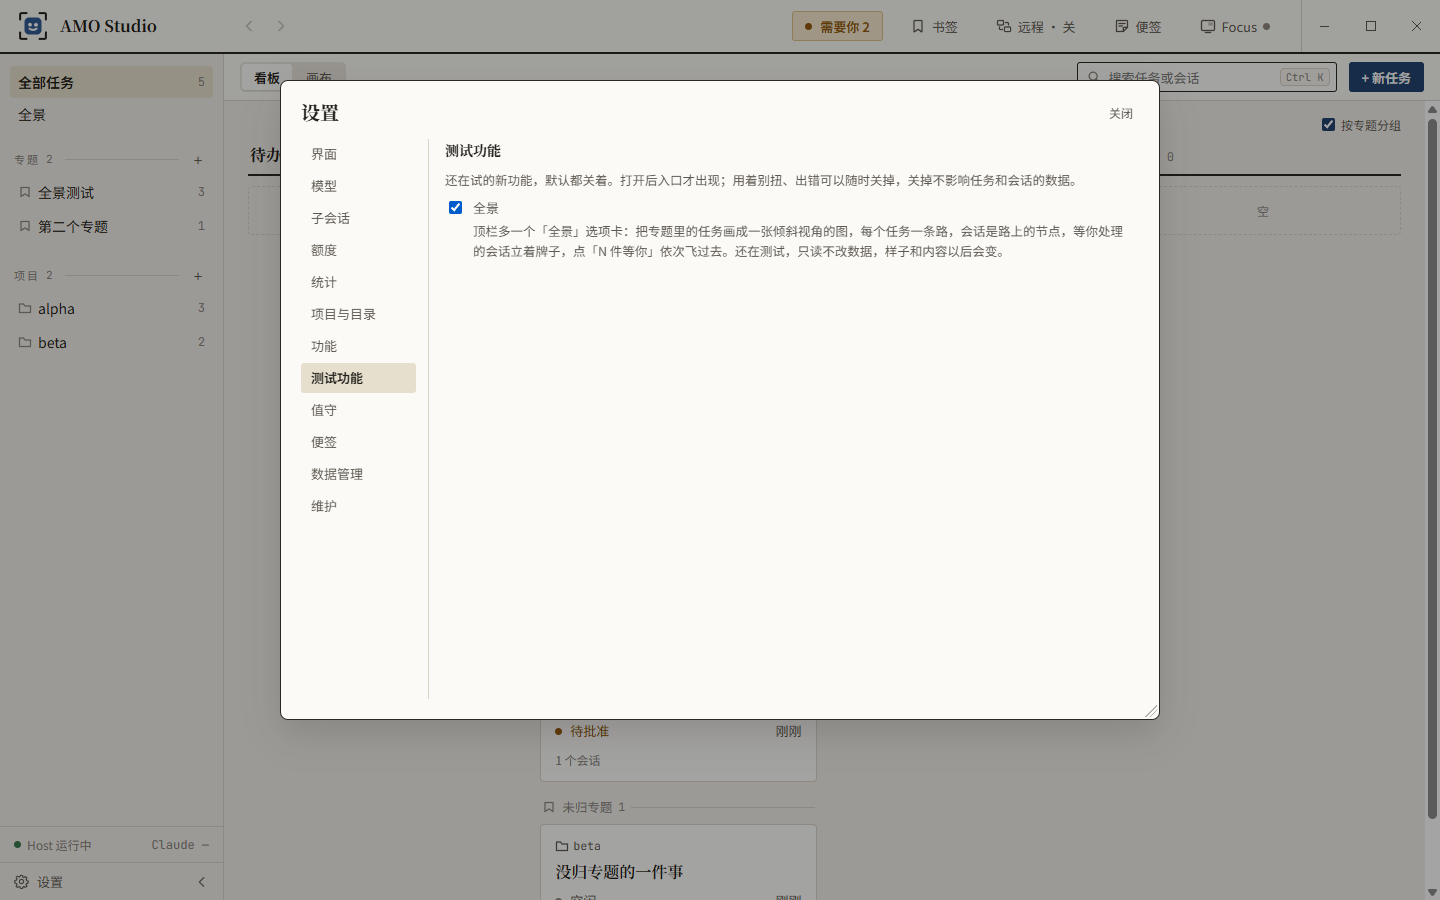
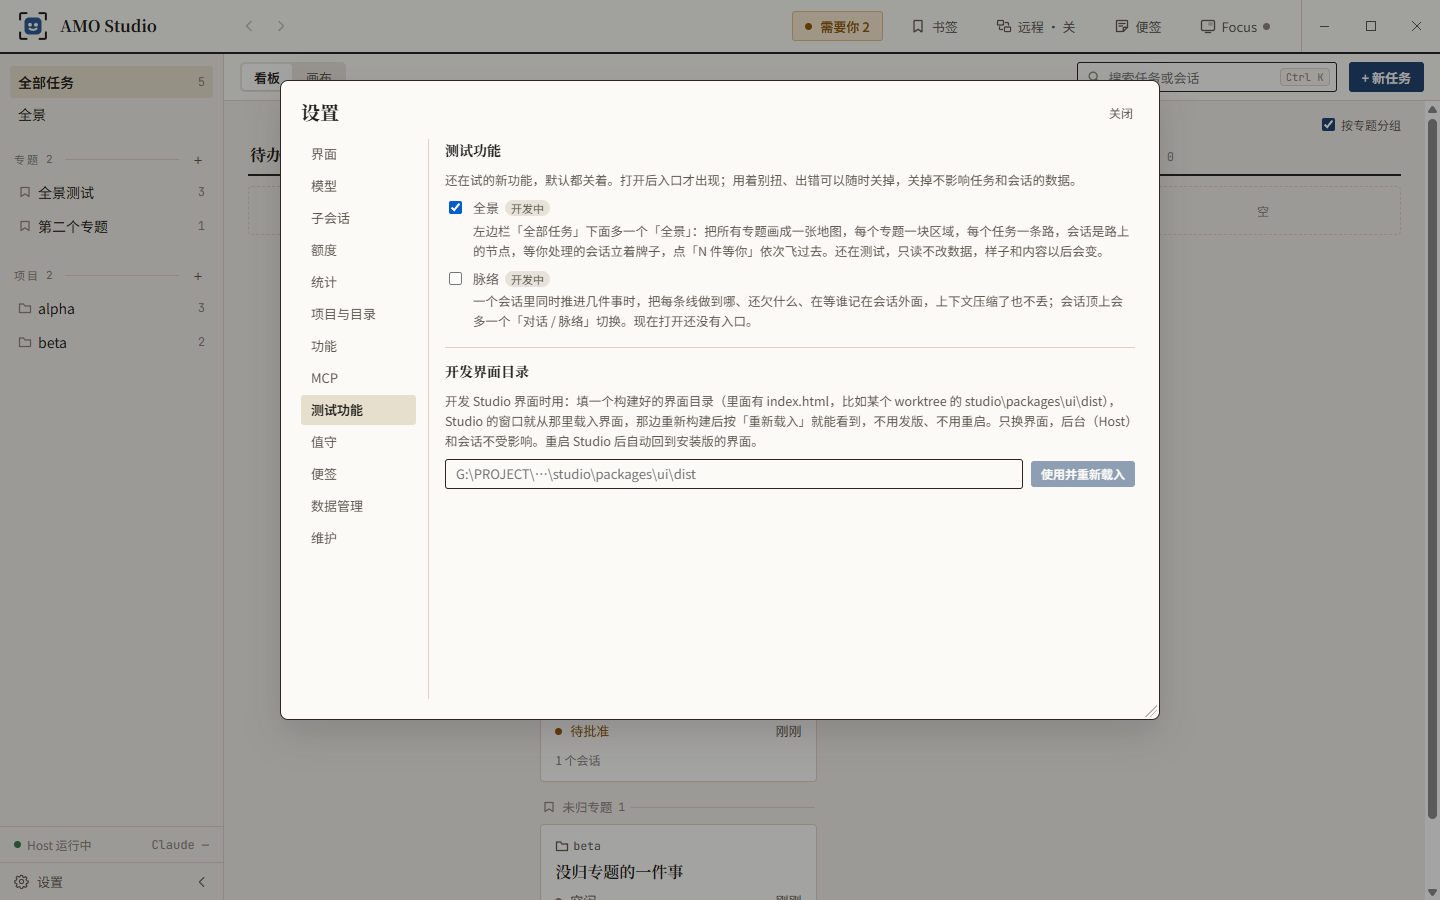
feat(settings): 测试功能 marks what is still being built 「开发中」, and gets 脉络 — its switch only, for now (the user, 2026-11-09: 首先我们给测试功能全景加一个开发中的标记。再加一个新模块的开关…就叫脉络，开始第 0 步吧)
脉络 (tracks) is the session-level answer to several things going on in one conversation, and between a session and the sessions it starts: where each line stands, what is still owed and who it waits on, kept outside the context so a compaction does not lose the quiet ones. plans/tracks.md has why (the 11-09 check on project_mining's merge session: at its first compaction Claude's summary kept 10 of the 16 open things whole, 2 in part, lost 4 — one became BR-007, and D11, kept as a bare number, later took D12's meaning; the same transcript written down as a ledger whose rule is "say what it is, not just its number" kept 14–15 whole with Sonnet and Opus), what the user settled (name 脉络 to stand beside 全景, 「对话 / 脉络」 at the top of a session, the ledger is the Host's data not a session, start at the session level, iterate the UI through 开发界面目录) and the steps.

EXPERIMENTAL_FEATURES entries take `stage: "dev"`, shown as 「开发中」 beside the name (the settings tag); 全景 and 脉络 both have it. The Host's list of known 测试功能 now includes `tracks`, which is why this needs a release: 0.9.56's Host refuses a name it does not know. Turning 脉络 on shows nothing yet, and its hint says so.

Checked: typecheck; amo-mcp.test (测试功能 kept in the list's order: tracks + panorama sent either way round); e2e panorama.spec, which now also sees both 开发中 tags and 脉络 left off — passes; screenshot panorama-settings looked at.

Changed region(s): [[0.1875, 0.4044, 0.8125, 0.6222], [0.3125, 0.2178, 0.7812, 0.3733]]

diff --git a/studio/packages/protocol/src/api.ts b/studio/packages/protocol/src/api.ts
@@ -218,13 +218,26 @@ export const OPTIONAL_FEATURES: readonly { id: OptionalFeature; label: string; h
  * 设置 → 测试功能 (2026-11-01, the user: 设置里加个测试功能页，这个功能加个开关): features still being tried out. The
  * opposite of OPTIONAL_FEATURES: off until the person turns one on, and the settings list the ones turned on.
  */
-export type ExperimentalFeature = "panorama";
+export type ExperimentalFeature = "panorama" | "tracks";
 
-export const EXPERIMENTAL_FEATURES: readonly { id: ExperimentalFeature; label: string; hint: string }[] = [
+/**
+ * `dev` (2026-11-09, the user: 给测试功能全景加一个开发中的标记): still being built, shown as 「开发中」 beside its name —
+ * what it does now is a first piece, or nothing yet.
+ */
+export const EXPERIMENTAL_FEATURES: readonly { id: ExperimentalFeature; label: string; hint: string; stage?: "dev" }[] = [
   {
     id: "panorama",
     label: "全景",
     hint: "左边栏「全部任务」下面多一个「全景」：把所有专题画成一张地图，每个专题一块区域，每个任务一条路，会话是路上的节点，等你处理的会话立着牌子，点「N 件等你」依次飞过去。还在测试，只读不改数据，样子和内容以后会变。",
+    stage: "dev",
+  },
+  // 脉络 (2026-11-09, plans/tracks.md): one session carrying several things at once keeps where each line stands outside
+  // its context, so a compaction does not lose the quiet ones. Only the switch so far.
+  {
+    id: "tracks",
+    label: "脉络",
+    hint: "一个会话里同时推进几件事时，把每条线做到哪、还欠什么、在等谁记在会话外面，上下文压缩了也不丢；会话顶上会多一个「对话 / 脉络」切换。现在打开还没有入口。",
+    stage: "dev",
   },
 ];
 

diff --git a/studio/packages/host/src/mcp/amo-mcp.test.ts b/studio/packages/host/src/mcp/amo-mcp.test.ts
@@ -115,6 +115,9 @@ describe("AMO MCP", () => {
     expect(() => service.config.updateSettings({ experimentalFeatures: ["nope"] })).toThrow(/experimentalFeatures/);
     expect(() => service.config.updateSettings({ experimentalFeatures: "panorama" })).toThrow(/experimentalFeatures/);
     expect(service.config.updateSettings({ experimentalFeatures: ["panorama", "panorama"] }).experimentalFeatures).toEqual(["panorama"]);
+    // 脉络 (2026-11-09): kept in the list's order whatever order it was sent in.
+    expect(service.config.updateSettings({ experimentalFeatures: ["tracks", "panorama"] }).experimentalFeatures).toEqual(["panorama", "tracks"]);
+    expect(service.config.updateSettings({ experimentalFeatures: ["panorama"] }).experimentalFeatures).toEqual(["panorama"]);
     // One that was taken out again is ignored when read back.
     store.setKv("settings:experimental-features", JSON.stringify(["gone", "panorama"]));
     expect(service.config.experimentalFeatures()).toEqual(["panorama"]);

diff --git a/studio/e2e/studio/panorama.spec.ts b/studio/e2e/studio/panorama.spec.ts
@@ -90,6 +90,10 @@ test("全景: off by default, turned on in 测试功能, opened from the left co
   await dialog.getByRole("tab", { name: "测试功能" }).click();
   const toggle = dialog.getByTestId("experimental-panorama");
   await expect(toggle).not.toBeChecked();
+  // Both still being built (2026-11-09): 「开发中」 beside the name; 脉络 off and left alone here.
+  await expect(dialog.getByTestId("experimental-panorama-stage")).toHaveText("开发中");
+  await expect(dialog.getByTestId("experimental-tracks-stage")).toHaveText("开发中");
+  await expect(dialog.getByTestId("experimental-tracks")).not.toBeChecked();
   await toggle.check();
   await expect(toggle).toBeChecked();
   await expect.poll(async () => (await studio!.api<{ experimentalFeatures: string[] }>("GET", "/api/settings")).experimentalFeatures).toEqual(["panorama"]);

diff --git a/studio/packages/ui/src/settings/ExperimentalSection.tsx b/studio/packages/ui/src/settings/ExperimentalSection.tsx
@@ -38,7 +38,14 @@ export function ExperimentalSection({ link, on }: { link: HostLink; on: readonly
         <label key={f.id} className="settings-row feature-row">
           <input type="checkbox" checked={shown.includes(f.id)} disabled={busy} onChange={(e) => void toggle(f.id, e.target.checked)} data-testid={`experimental-${f.id}`} />
           <span className="feature-text">
-            <span className="settings-label">{f.label}</span>
+            <span className="settings-label">
+              {f.label}
+              {f.stage === "dev" && (
+                <span className="settings-tag feature-stage" data-testid={`experimental-${f.id}-stage`}>
+                  开发中
+                </span>
+              )}
+            </span>
             <span className="settings-hint">{f.hint}</span>
           </span>
         </label>

diff --git a/studio/packages/ui/src/settings/settings.css b/studio/packages/ui/src/settings/settings.css
@@ -17,6 +17,7 @@
 .feature-row { align-items: flex-start; cursor: pointer; }
 .feature-row input { margin-top: 3px; }
 .feature-text { display: flex; flex-direction: column; gap: 2px; flex: 1; min-width: 0; }
+.feature-stage { margin-left: 6px; }
 
 /* 设置 in pages: the areas on the left, one page on the right (the dialog keeps its size between pages). */
 .settings-modal { position: relative; width: min(880px, calc(100vw - 40px)); height: min(640px, calc(100vh - 120px)); overflow: hidden; gap: 12px; }

diff --git a/studio/plans/tracks.md b/studio/plans/tracks.md
@@ -1,0 +1,53 @@
+# 脉络（tracks）：一个会话、几个会话推进多件事时，不丢线（2026-11-09）
+
+> 状态：进行中。第 0 步（测试功能「开发中」标签、「脉络」开关、这份方案）在分支 `studio/tracks`（worktree `G:/PROJECT/AgentMonitorOverlay-tracks`）。下一步：面板原型。
+
+## 起因（用户 11-09）
+
+- 子会话和主会话之间的往来（回报、`session_send`）现在都以用户气泡铺在对话里，影响人的判断。
+- 对话常分出几个方向：聊到后面分成 3 支，要分别迭代；人的精力在第 1、2 支，第 3 支就忘了，只能不时去问对应的对话「做到哪、还有什么没做」。
+- 拉起子会话、或经中转发给别人，本身是一个小循环。
+- 主会话和子会话频繁互动时人不该关心中间过程；派发之后应该让人直接在子会话里操作，省掉「子 → 主 → 人」的转手。
+- 这几种本是想在全景里表达的。全景卡住了：框架太大、痛点不够明确。这次反过来，**从小向大**：先从会话级做起。
+
+## 验证（11-09，`studio/out/branch-eval/findings.md`，不进 git）
+
+拿 project_mining「代码合并和任务推进」主会话（人 40 条、收件箱 36 条、压缩 3 次、开 13 个子会话、人问进度 4 次）做的：
+
+- 第一次压缩时开着的 16 件事：Claude 的压缩摘要完整保住 10、半截 2、丢 4；按台账格式记（规则「内容写清，不能只写编号」）Sonnet 14 / 2 / 0，Opus 15 / 1 / 0。
+- 压缩后模型的汇总和摘要一模一样：摘要里没有的它就不知道。丢掉的「画面表现未核实（死者身上落雷）」后来成了 BR-007。只留编号的 D11 在压缩后被套上了 D12 的内容。
+- 只取开着的事渲染成目录约 5,900 字，压缩摘要 11,000 字。
+- 主会话转述子会话状态出错过一次（U24）；36 条回报共 84,185 字进了主会话的上下文。
+- 10-30 以来人开的 78 个主会话：人发 10 条以内的 63 个，压缩过的 5 个；11 条以上的 15 个，压缩过 13 个，「问进度」只出现在这里。115 个子会话里人亲自进去发过消息的 57 个。
+
+局限：一个会话、一个切点、单人标注；台账是事后一次整理，不是边干边记。
+
+## 已定（用户 11-09）
+
+- **名字「脉络」**，对标全景；会话顶上切换「对话 / 脉络」，点「脉络」右边整个换掉。代码 id `tracks`。里面那本账叫「台账」。
+- 设置 → 测试功能：全景和脉络都标「开发中」。
+- **台账是 Host 存的数据，不是会话**：放在会话里会跟着压缩丢、常驻维护越来越费 token（同 10-30 不做常驻看板员）。平级会话的用处是**接力**：一个会话做到一半太大，开新会话把台账交过去。
+- **从会话级开始**，不预先判断任务大小：开了功能，新会话从一开始就带台账，空的不花什么。
+- 新建会话 / 任务的界面要有对应选项；顺带把任务里「新建会话」改得像新建任务：一页填完首句、模型、附件、选项，一次创建并发出（现在是先选模型创建、再写首句）。
+- 用**开发界面目录**（设置 → 测试功能，`config.devUiDir`）在 worktree 里迭代界面；Host 一侧的改动要重启 Host 才生效，攒一批，由人在没有会话运行时点重启，必要时发测试版。
+
+## 核心流程
+
+1. **面板**：脉络视图长什么样，先做原型（用验证里那份真实台账做 2～3 种可点的 HTML），人上手比较后再定。
+2. **单会话、中等任务**（多数任务，尤其策划推过来的）：有可能压缩一两次。靠外置的台账维持多件事稳定推进。
+3. **多会话、中等 / 复杂任务**：一般知道任务后就能判断复杂度，一轮对话后直接开拆。主会话了解整个任务内部和它相关的内容，维持任务架构清晰，并让人看得懂（例：上面那个合并任务）。
+
+## 做法（草案，随步骤补）
+
+- 台账：线（thread）→ 条目（编号、一句话内容、类型、状态、等谁、来源）。
+- 模型接口：`ledger_update`、`ledger_read`（MCP）。规则写进工具说明：内容写清，不能只写编号；有两件以上开着的事、或话题分叉了才开始记。
+- 回给模型：平时不注入；压缩之后、人问进度时，把开着的事的目录放进下一条消息（`roleUpdate` 通道，`core/role.ts`）。
+- 给人看：脉络视图（按线分组，「◐ N 条等你」）。
+- 以后（流程 3）：条目挂会话 id / 中转 threadId；子会话回报只带台账变化和全文入口；人直接接管子会话；接力。
+
+## 步骤
+
+0. 测试功能「开发中」标签、「脉络」开关、这份方案。开关要 Host 认识 `tracks` 才能打开，所以要发一个测试版。
+1. 面板原型 → 人选；改新建会话页并加选项。
+2. 流程 2：Host 台账存储 + MCP + 压缩后注入 + 脉络视图第一版。用几天，按验证的办法在每次压缩时打分。
+3. 流程 3。

diff --git a/studio/HANDOFF.md b/studio/HANDOFF.md
@@ -33,6 +33,7 @@
 | 文档整理（Archify 三层） | 11-06 用户审过，合进 master：HANDOFF 瘦身、导航索引 `docs/nav/`（`node scripts/nav.mjs`）+ 锚点测试、plans 只留决定、`plans/later/` 放以后推进的。维护办法和对比实验在 `plans/doc-architecture.md`；以后每批文档改动后用里面的 3 个问题复测 |
 | Host 结构 | `plans/host-structure.md`：8a–8c 已合进 master；剩一个 feature 环组 {collab、gitreview、projects、remote、review、sessions、tasks、viewpacks}，拆法写在方案里，没开工。项目梳理总表 `plans/done/cleanup-2026-11.md` |
 | 全景（userlayer） | 分支 `studio/panorama`（worktree `G:\PROJECT\AgentMonitorOverlay-panorama`）比 master 多 4 个提交：全景里抽屉打开会话（`plans/userlayer/framework.md` 第 1 步）、内存测量，没合 |
+| 脉络（tracks） | 11-09 开工，`plans/tracks.md`。第 0 步（测试功能「开发中」标签、「脉络」开关）合进 master，随 Studio 测试版发；之后在 worktree `G:\PROJECT\AgentMonitorOverlay-tracks`（分支 `studio/tracks`）用开发界面目录迭代。下一步：面板原型 |
 | 远程会话 | 功能都在 master、已发布（`plans/done/remote-session.md`、`plans/done/remote-page-and-new-task.md`；11-06 加了远程任务页的被控端额度）。等用户用两台真电脑验收；会话级授权、模型细到型号、远程权限上限等用户 10-29 定先不做 |
 | Android Studio | 工程在 `mobile/`（KMP：`shared` + `app`），调试 APK 在 `mobile/out/`。真实手机和 Tailscale 实网没测（`plans/done/android-studio.md`） |
 | iOS Studio | `plans/ios.md`：签名 11-03 通了（jenkins-build 钥匙串），**等 App Store Connect API Key**（打包机 `~/.amo-ios/config` 两个 ID 空着、没有 .p8），之后 validate、问过用户再第一次上传。打包机上 LaunchAgent `com.amo.ios-build` 的残留没卸（等用户点头删 Mac 上的文件） |

diff --git a/studio/packages/app/CHANGELOG.md b/studio/packages/app/CHANGELOG.md
@@ -4,6 +4,8 @@
 
 ## 下一版
 
+- 设置 → 测试功能里，还在开发的功能名字旁边多了「开发中」标签，「全景」现在带着它。另外新加了一项「脉络」（也是开发中）：以后一个会话里同时推进几件事时，用它记下每条线做到哪、还欠什么、在等谁，上下文压缩了也不丢。这一版只有开关，打开后还没有入口。
+
 ## 0.9.56（2026-11-09）
 
 - 项目里开着 SSE 连接的 MCP（比如 gorilla-canvas）时，DeepSeek 会话也能开起来了。以前 Studio 把它原样交给 DeepSeek（DSH），DSH 不支持 SSE，直接报「Invalid params: mcpServers[…] transport sse is not supported」，整个会话起不来，用 `session_start` 拉起的 DeepSeek 子会话也一样，只能去关掉项目里的 MCP。现在 DeepSeek 会话只带 DSH 支持的 MCP，带不上的不带，会话里多一行说明是哪个、为什么没带；其他 MCP 照常可用，DSH 以后支持了会自动带上。Codex 本来就带不上 SSE 的 MCP，以前是不声不响地跳过，现在新会话里也会说明。Claude 会话不受影响。
